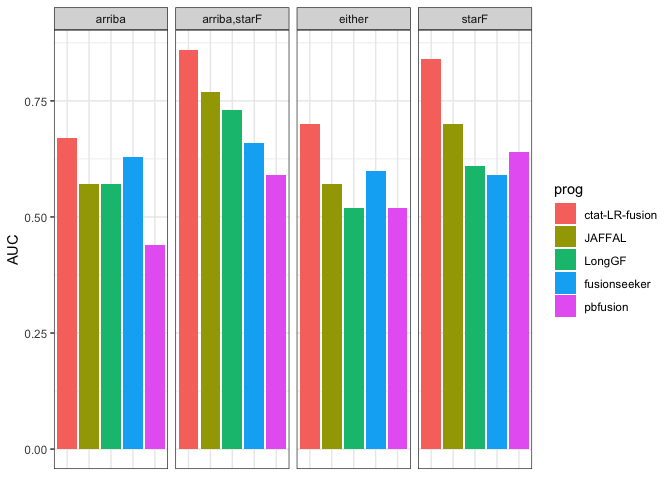
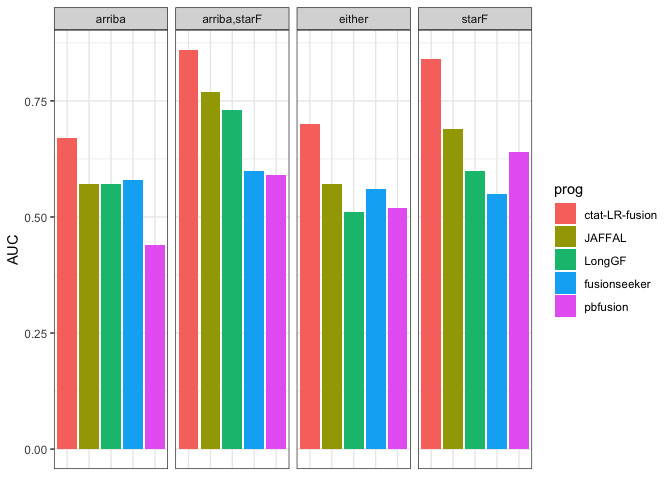
reknitted

diff --git a/3.DepMap9Lines/3b.DepMap9Lines_Benchmarking/3b.2.Illumina_TP_unique_FP_bmarking/Illum_TP_uniq_FP_summary.md b/3.DepMap9Lines/3b.DepMap9Lines_Benchmarking/3b.2.Illumina_TP_unique_FP_bmarking/Illum_TP_uniq_FP_summary.md
@@ -52,10 +52,10 @@ PR_AUC_df %>% head()
 
     ##             prog  AUC
     ## 1 ctat-LR-fusion 0.84
-    ## 2         JAFFAL 0.70
+    ## 2         JAFFAL 0.69
     ## 3       pbfusion 0.64
-    ## 4         LongGF 0.61
-    ## 5   fusionseeker 0.59
+    ## 4         LongGF 0.60
+    ## 5   fusionseeker 0.55
     ## 6 ctat-LR-fusion 0.86
     ##                                                                                                   fname
     ## 1        ./__illum_TP_uniq_FP.starF/data/eval_illum_supported.okPara_ignoreUnsure.results.scored.PR.AUC
@@ -74,10 +74,10 @@ PR_AUC_df %>% head()
 
     ##             prog  AUC
     ## 1 ctat-LR-fusion 0.84
-    ## 2         JAFFAL 0.70
+    ## 2         JAFFAL 0.69
     ## 3       pbfusion 0.64
-    ## 4         LongGF 0.61
-    ## 5   fusionseeker 0.59
+    ## 4         LongGF 0.60
+    ## 5   fusionseeker 0.55
     ## 6 ctat-LR-fusion 0.86
     ##                                                                                                   fname
     ## 1        ./__illum_TP_uniq_FP.starF/data/eval_illum_supported.okPara_ignoreUnsure.results.scored.PR.AUC
@@ -108,4 +108,8 @@ illum_fusion_acc_barplot
 
 ``` r
 ggsave(illum_fusion_acc_barplot, filename = "illum_fusion_accuracy_barplot.svg", width=7, height=3.5)
+```
+
+``` r
+write.table(PR_AUC_df, file="PR_AUC_df.summary.tsv", quote=F, sep="\t", row.names=F)
 ```
